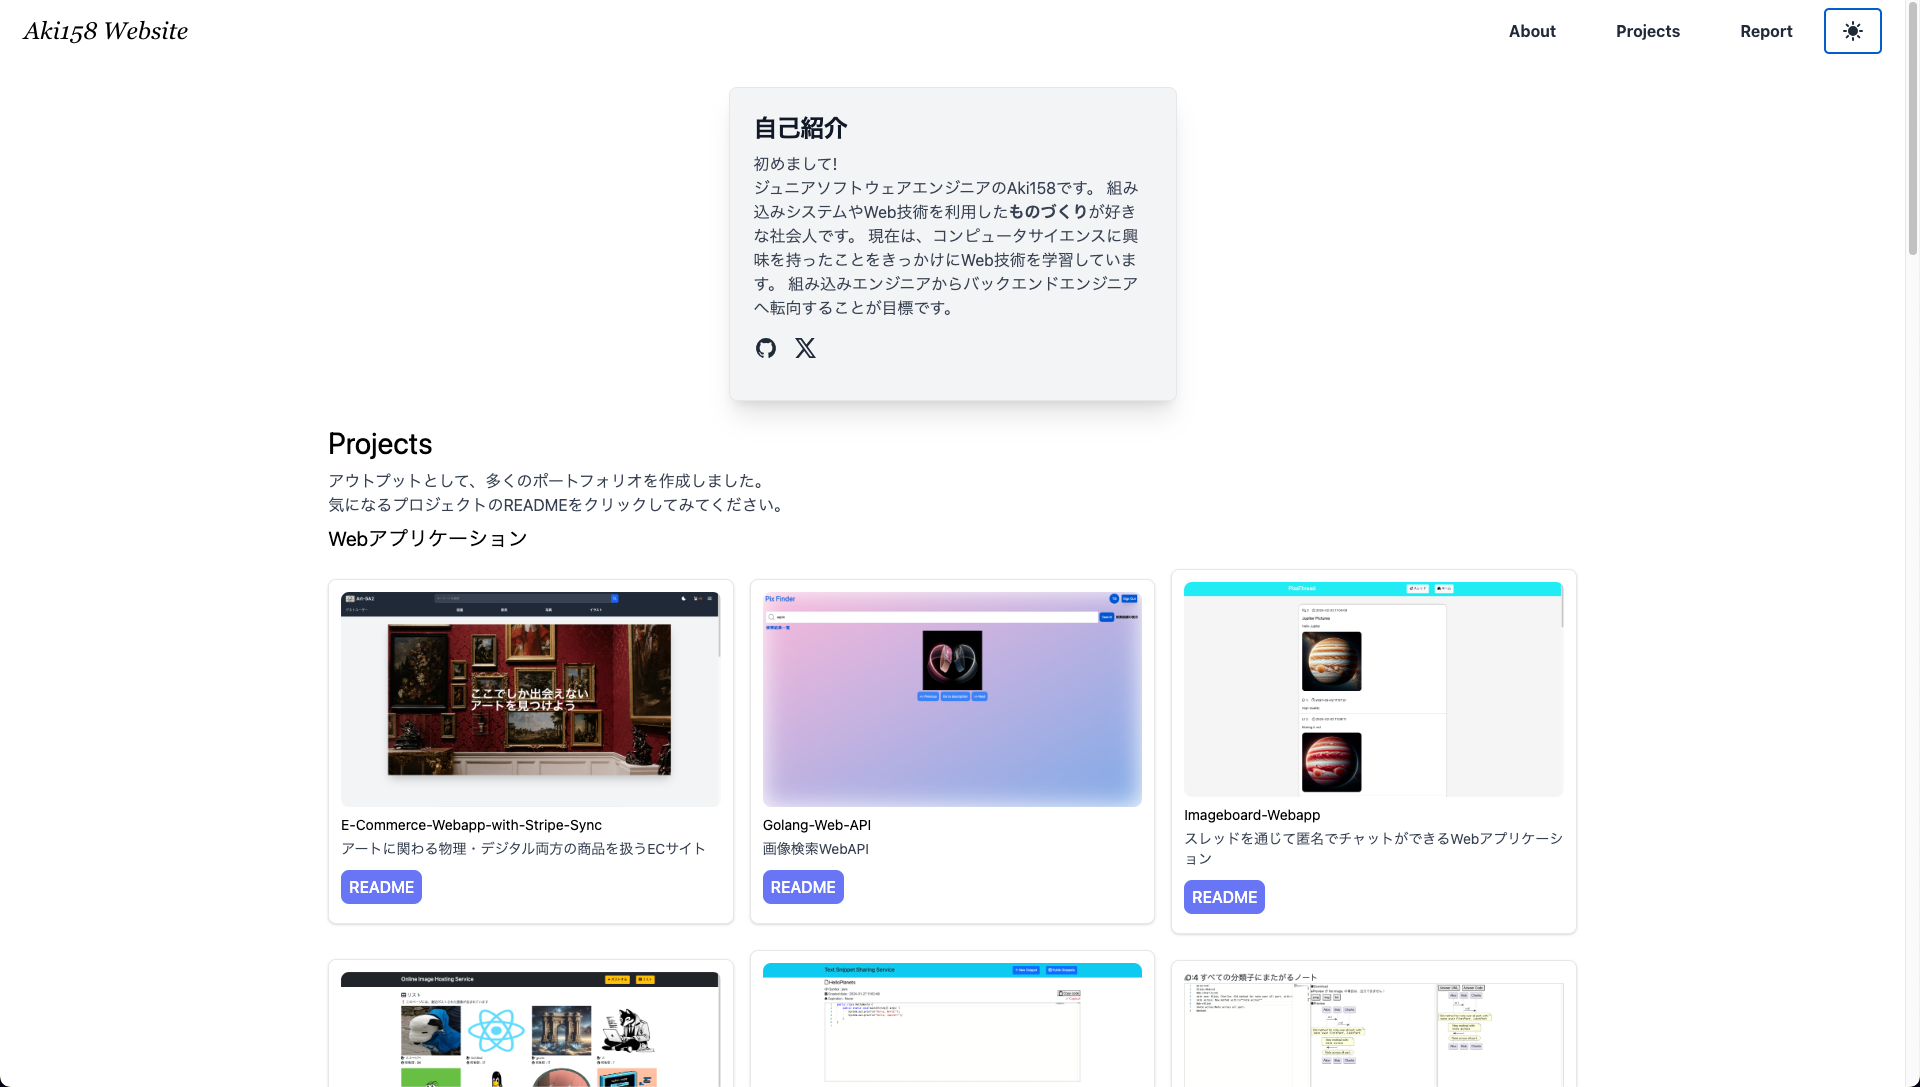
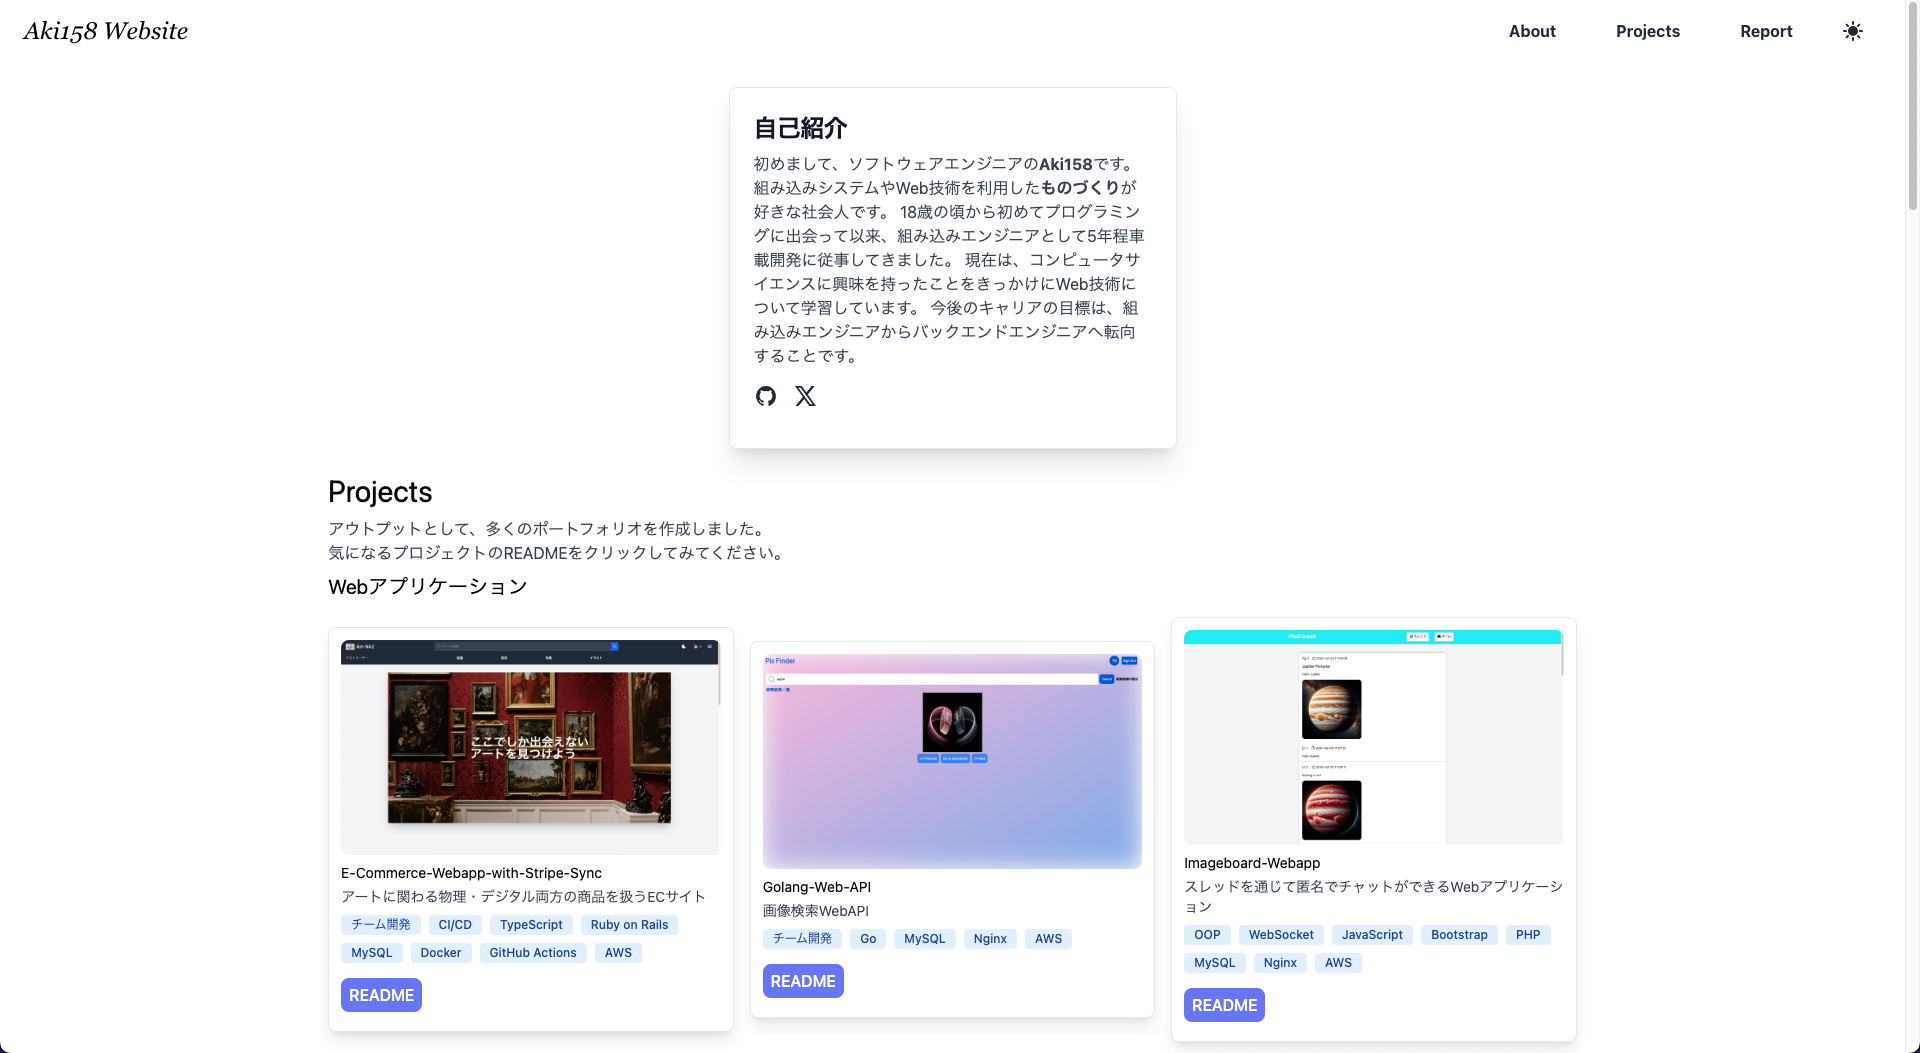
タグ追加

diff --git a/src/index.html b/src/index.html
@@ -49,8 +49,7 @@
                         組み込みシステムやWeb技術を利用した<strong>ものづくり</strong>が好きな社会人です。
                         18歳の頃から初めてプログラミングに出会って以来、組み込みエンジニアとして5年程車載開発に従事してきました。
                         現在は、コンピュータサイエンスに興味を持ったことをきっかけにWeb技術について学習しています。
-                        今後のキャリアの目標は、組み込みエンジニアからバックエンドエンジニアへ転向することです。<br>
-                        よろしくお願いします！
+                        今後のキャリアの目標は、組み込みエンジニアからバックエンドエンジニアへ転向することです。
                     </p>
 
                     <div class="flex py-4 space-x-4">
@@ -77,7 +76,7 @@
                 </div>
             </div>
         </div>
-    
+
         <div id="projects" class="mx-4 my-6 flex flex-col items-center justify-center">
             <div class="md:w-2/3 space-y-2">
                 <h2 class="text-3xl dark:text-white">Projects</h2>
@@ -88,22 +87,22 @@
 
                 <h3 class="text-xl dark:text-white">Webアプリケーション</h3>
                 <div class="flex justify-center">
-                    <div id="web-app" class="grid grid-cols-2 items-center gap-4 py-2 lg:grid-cols-3"></div>
+                    <div id="web-app" class="grid grid-cols-1 items-center gap-4 py-2 md:grid-cols-2 lg:grid-cols-3"></div>
                 </div>
 
                 <h3 class="text-xl dark:text-white">ローカルアプリケーション</h3>
                 <div class="flex justify-center">
-                    <div id="local-app" class="grid grid-cols-2 items-center gap-4 py-2 lg:grid-cols-3"></div>
+                    <div id="local-app" class="grid grid-cols-1 items-center gap-4 py-2 md:grid-cols-2 lg:grid-cols-3"></div>
                 </div>
 
                 <h3 class="text-xl dark:text-white">ゲーム</h3>
                 <div class="flex justify-center">
-                    <div id="game" class="grid grid-cols-2 items-center gap-4 py-2 lg:grid-cols-3"></div>
+                    <div id="game" class="grid grid-cols-1 items-center gap-4 py-2 md:grid-cols-2 lg:grid-cols-3"></div>
                 </div>
 
                 <h3 class="text-xl dark:text-white">ロボット</h3>
                 <div class="flex justify-center">
-                    <div id="robot" class="grid grid-cols-2 items-center gap-4 py-2 lg:grid-cols-3"></div>
+                    <div id="robot" class="grid grid-cols-1 items-center gap-4 py-2 md:grid-cols-2 lg:grid-cols-3"></div>
                 </div>
             </div>
         </div>

diff --git a/src/css/output.css b/src/css/output.css
@@ -1133,12 +1133,21 @@ input:checked + .toggle-bg {
   margin-bottom: 1.5rem;
 }
 
+.my-1 {
+  margin-top: 0.25rem;
+  margin-bottom: 0.25rem;
+}
+
 .mb-1 {
   margin-bottom: 0.25rem;
 }
 
 .mb-2 {
   margin-bottom: 0.5rem;
+}
+
+.me-2 {
+  margin-inline-end: 0.5rem;
 }
 
 .mt-2 {
@@ -1291,6 +1300,10 @@ input:checked + .toggle-bg {
   grid-template-columns: repeat(7, minmax(0, 1fr));
 }
 
+.grid-cols-1 {
+  grid-template-columns: repeat(1, minmax(0, 1fr));
+}
+
 .flex-col {
   flex-direction: column;
 }
@@ -1431,6 +1444,11 @@ input:checked + .toggle-bg {
   border-color: rgb(75 85 99 / var(--tw-border-opacity));
 }
 
+.bg-blue-100 {
+  --tw-bg-opacity: 1;
+  background-color: rgb(225 239 254 / var(--tw-bg-opacity));
+}
+
 .bg-blue-700 {
   --tw-bg-opacity: 1;
   background-color: rgb(26 86 219 / var(--tw-bg-opacity));
@@ -1508,6 +1526,11 @@ input:checked + .toggle-bg {
   padding-right: 0.5rem;
 }
 
+.px-2\.5 {
+  padding-left: 0.625rem;
+  padding-right: 0.625rem;
+}
+
 .px-3 {
   padding-left: 0.75rem;
   padding-right: 0.75rem;
@@ -1521,6 +1544,16 @@ input:checked + .toggle-bg {
 .px-5 {
   padding-left: 1.25rem;
   padding-right: 1.25rem;
+}
+
+.py-0 {
+  padding-top: 0px;
+  padding-bottom: 0px;
+}
+
+.py-0\.5 {
+  padding-top: 0.125rem;
+  padding-bottom: 0.125rem;
 }
 
 .py-2 {
@@ -1589,6 +1622,11 @@ input:checked + .toggle-bg {
   line-height: 1.75rem;
 }
 
+.text-xs {
+  font-size: 0.75rem;
+  line-height: 1rem;
+}
+
 .font-bold {
   font-weight: 700;
 }
@@ -1620,6 +1658,11 @@ input:checked + .toggle-bg {
 .text-blue-600 {
   --tw-text-opacity: 1;
   color: rgb(28 100 242 / var(--tw-text-opacity));
+}
+
+.text-blue-800 {
+  --tw-text-opacity: 1;
+  color: rgb(30 66 159 / var(--tw-text-opacity));
 }
 
 .text-gray-400 {
@@ -1832,6 +1875,11 @@ input:checked + .toggle-bg {
   background-color: rgb(28 100 242 / var(--tw-bg-opacity));
 }
 
+.dark\:bg-blue-900:is(.dark *) {
+  --tw-bg-opacity: 1;
+  background-color: rgb(35 56 118 / var(--tw-bg-opacity));
+}
+
 .dark\:bg-gray-600:is(.dark *) {
   --tw-bg-opacity: 1;
   background-color: rgb(75 85 99 / var(--tw-bg-opacity));
@@ -1863,6 +1911,11 @@ input:checked + .toggle-bg {
 .dark\:bg-indigo-500:is(.dark *) {
   --tw-bg-opacity: 1;
   background-color: rgb(104 117 245 / var(--tw-bg-opacity));
+}
+
+.dark\:text-blue-300:is(.dark *) {
+  --tw-text-opacity: 1;
+  color: rgb(164 202 254 / var(--tw-text-opacity));
 }
 
 .dark\:text-blue-500:is(.dark *) {
@@ -1931,6 +1984,10 @@ input:checked + .toggle-bg {
 
   .md\:w-2\/3 {
     width: 66.666667%;
+  }
+
+  .md\:grid-cols-2 {
+    grid-template-columns: repeat(2, minmax(0, 1fr));
   }
 
   .md\:px-4 {

diff --git a/src/js/app.js b/src/js/app.js
@@ -31,6 +31,15 @@ window.addEventListener("load", (event) => {
 });
 
 function render_portfolio(index,portfolio_hashmap_arr){
+
+    var tag_list = "";
+
+    if(portfolio_hashmap_arr[index].tag != undefined && portfolio_hashmap_arr[index].tag.length > 0){
+        for (var i = 0; i < portfolio_hashmap_arr[index].tag.length; i++) {
+            tag_list += `<span class="my-1 bg-blue-100 text-blue-800 text-xs font-medium me-2 px-2.5 py-0.5 rounded dark:bg-blue-900 dark:text-blue-300">${portfolio_hashmap_arr[index].tag[i]}</span>`;
+        }    
+    }
+
     const templete = `
         <div class="bg-white border border-gray-200 rounded-lg shadow-lg hover:bg-gray-100 dark:bg-gray-900 dark:border-gray-700 dark:hover:bg-gray-800 p-3 space-y-1">
             <img class="h-auto max-w-full rounded-lg"
@@ -39,6 +48,9 @@ function render_portfolio(index,portfolio_hashmap_arr){
             />
             <p class="text-sm dark:text-white pt-1">${portfolio_hashmap_arr[index].title}</p>
             <p class="text-sm text-gray-700 dark:text-gray-400">${portfolio_hashmap_arr[index].summary}</p>
+            <div class="flex flex-wrap">
+                ${tag_list}
+            </div>
             <div class="py-3">
                 <a href="${portfolio_hashmap_arr[index].source}" class="mb-1 text-base font-medium p-2 rounded-lg text-white bg-indigo-500 hover:bg-indigo-600">README</a>
             </div>
